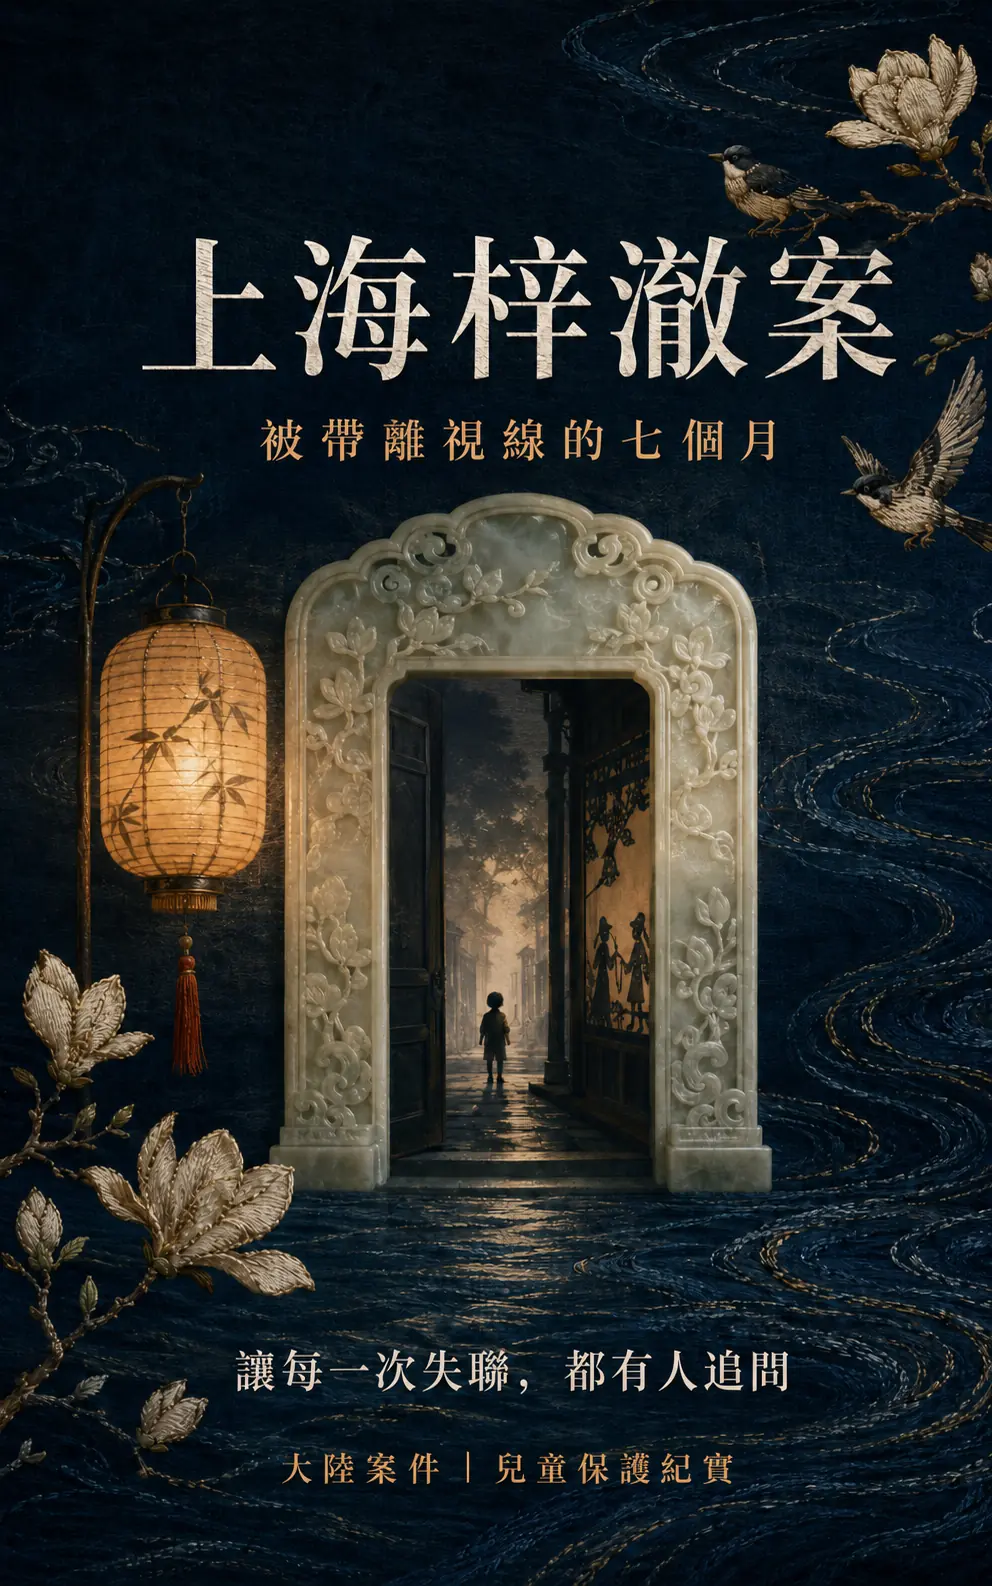
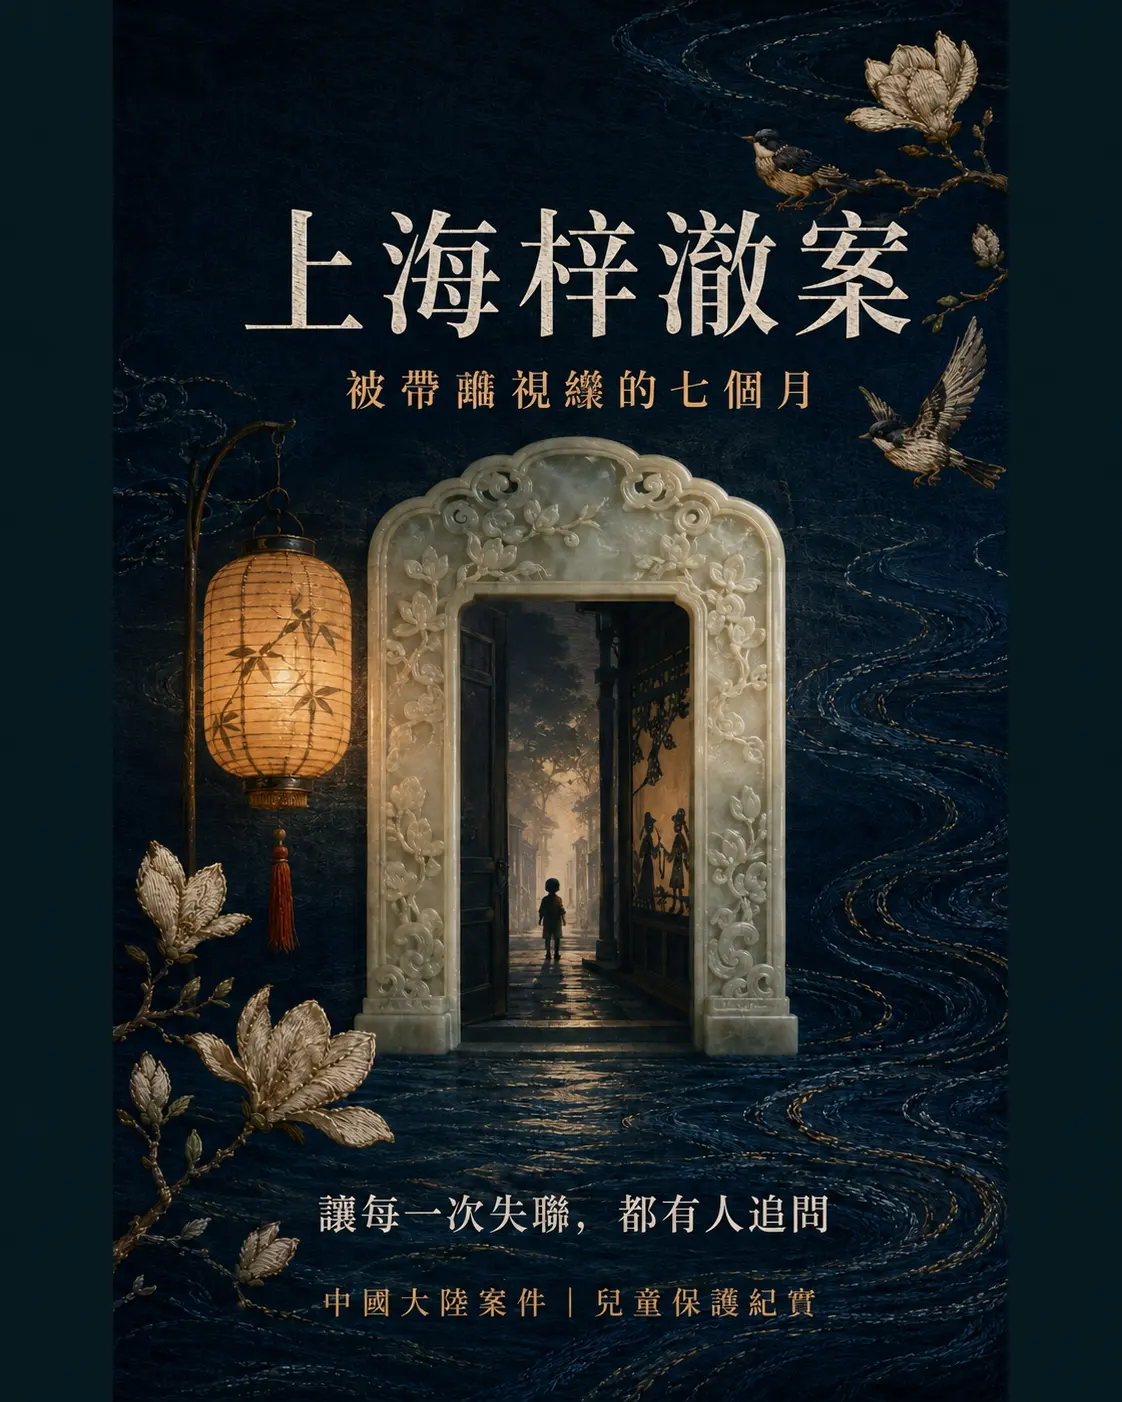
Publish corrected Traditional Chinese Huang Ziche poster

diff --git a/historical-cases/regions/mainland-china/huang-ziche/index.html b/historical-cases/regions/mainland-china/huang-ziche/index.html
@@ -9,7 +9,7 @@
   <meta property="og:type" content="article">
   <meta property="og:title" content="上海梓澈案｜被帶離視線的七個月">
   <meta property="og:description" content="把法院認定、家屬陳述、媒體查證與仍待回答的問題分層呈現。">
-  <meta property="og:image" content="https://jerryzuhow77.github.io/child-advocacy-site/assets/art/huang-ziche-main-visual-hant-20260830.webp">
+  <meta property="og:image" content="https://jerryzuhow77.github.io/child-advocacy-site/assets/art/huang-ziche-main-visual-hant-20260830.webp?v=2">
   <link rel="canonical" href="https://jerryzuhow77.github.io/child-advocacy-site/historical-cases/regions/mainland-china/huang-ziche/">
   <link rel="alternate" hreflang="zh-Hant" href="https://jerryzuhow77.github.io/child-advocacy-site/historical-cases/regions/mainland-china/huang-ziche/">
   <link rel="alternate" hreflang="zh-Hans" href="https://jerryzuhow77.github.io/child-advocacy-site/historical-cases/regions/mainland-china/huang-ziche/zh-Hans/">
@@ -75,7 +75,7 @@
 </div>
 <details class="hz-mobile-detail"><summary>查看完整案件摘要與海派美術說明</summary><p>2024年1月，三歲的黃梓澈被生父帶離生母身邊；同年8月24日，他遭生父女友趙雨蝶傷害後昏迷，9月4日死亡。2026年4月21日，上海市第一中級人民法院一審判處趙雨蝶死刑，緩期二年執行。本頁將法院認定、鑑定結果、家屬陳述與未答之問分層整理；美術以絨繡承擔情緒、玉雕建立證據框架、燈彩引導閱讀、顧繡收束留白。</p></details>
 </div></section>
-<section class="hz-case-key-visual" aria-labelledby="hz-case-key-visual-title"><div class="tt-shell hz-case-key-visual-grid"><figure><img src="../../../../assets/art/huang-ziche-main-visual-hant-20260830.webp" width="992" height="1586" loading="eager" fetchpriority="high" alt="上海梓澈案主視覺：深靛絨繡水紋、顧繡玉蘭、上海燈彩與海派玉雕門，門內是一名走向微光的孩子剪影"></figure><div class="hz-case-key-visual-copy"><small>CASE KEY VISUAL · SHANGHAI</small><h2 id="hz-case-key-visual-title">一扇門，與七個月的失聯</h2><p>主視覺以深靛絨繡水紋承接漫長失聯，以海派玉雕門框象徵仍應被打開的安全確認程序；上海燈彩照向門內，顧繡玉蘭與飛鳥則留下對一個孩子的記憶。</p><p>2024年1月，三歲的黃梓澈被帶離生母身邊；同年8月遭受致命傷害，9月4日死亡。2026年4月21日，上海市第一中級人民法院一審判處趙雨蝶死刑，緩期二年執行。</p><p class="hz-case-key-visual-note">這不是傷害的再現，而是一個制度追問：當幼兒長期離開熟悉照顧者並失去聯絡，誰應在悲劇以前確認他的所在與安全？</p></div></div></section>
+<section class="hz-case-key-visual" aria-labelledby="hz-case-key-visual-title"><div class="tt-shell hz-case-key-visual-grid"><figure><img src="../../../../assets/art/huang-ziche-main-visual-hant-20260830.webp?v=2" width="1122" height="1402" loading="eager" fetchpriority="high" alt="上海梓澈案主視覺：深靛絨繡水紋、顧繡玉蘭、上海燈彩與海派玉雕門，門內是一名走向微光的孩子剪影"></figure><div class="hz-case-key-visual-copy"><small>CASE KEY VISUAL · SHANGHAI</small><h2 id="hz-case-key-visual-title">一扇門，與七個月的失聯</h2><p>主視覺以深靛絨繡水紋承接漫長失聯，以海派玉雕門框象徵仍應被打開的安全確認程序；上海燈彩照向門內，顧繡玉蘭與飛鳥則留下對一個孩子的記憶。</p><p>2024年1月，三歲的黃梓澈被帶離生母身邊；同年8月遭受致命傷害，9月4日死亡。2026年4月21日，上海市第一中級人民法院一審判處趙雨蝶死刑，緩期二年執行。</p><p class="hz-case-key-visual-note">這不是傷害的再現，而是一個制度追問：當幼兒長期離開熟悉照顧者並失去聯絡，誰應在悲劇以前確認他的所在與安全？</p></div></div></section>
 
 <section class="hz-shanghai-culture" aria-labelledby="hz-shanghai-culture-title"><div class="tt-shell">
   <header class="hz-shanghai-culture-head"><small>SHANGHAI CULTURAL TEXTURES</small><h2 id="hz-shanghai-culture-title">上海文化景點・一座城市的色與形</h2><p>這些地標不是案件場景，也不指向任何當事人的行蹤；它們只作為頁面海派美術的文化座標，讓城市記憶、傳統色與守護意象彼此照應。</p></header>
@@ -197,7 +197,7 @@
 <section class="hz-intervention-panel" aria-labelledby="hz-intervention-title"><header><small>PROTECTION PATH</small><h3 id="hz-intervention-title">悲劇發生以前｜五個可以介入的節點</h3></header><ol class="hz-intervention-path"><li><span>01</span><div><strong>失聯</strong><p>親屬長期無法見到幼兒</p></div></li><li><span>02</span><div><strong>確認</strong><p>面見兒童，不只詢問照顧者</p></div></li><li><span>03</span><div><strong>警訊併讀</strong><p>傷勢、缺席、說法矛盾合併判讀</p></div></li><li><span>04</span><div><strong>跨網通報</strong><p>警政、醫療、托育、社福交換必要資訊</p></div></li><li><span>05</span><div><strong>持續追蹤</strong><p>一次確認後仍須追蹤風險是否解除</p></div></li></ol><p class="hz-intervention-foot">保護不是等到證據足以定罪才開始；安全確認與刑事定罪有不同門檻。</p></section></article></div></section>
 </div>
 
-<section class="hz-social-poster" aria-labelledby="hz-social-poster-title"><div class="tt-shell hz-social-poster-grid"><div><small>SHARE THE QUESTION</small><h2 id="hz-social-poster-title">社群主視覺海報</h2><p>以海派玉雕的門、上海燈彩的光、絨繡的水紋與顧繡玉蘭承接同一個追問：當幼兒長期失聯，誰來確認他平安？</p><a href="../../../../assets/art/huang-ziche-main-visual-hant-20260830.webp" download>下載海派主視覺圖</a></div><figure><img src="../../../../assets/art/huang-ziche-main-visual-hant-20260830.webp" width="992" height="1586" loading="lazy" alt="上海梓澈案繁體社群主視覺海報，以海派玉雕門框、絨繡水紋、燈彩與顧繡玉蘭呈現"></figure></div></section>
+<section class="hz-social-poster" aria-labelledby="hz-social-poster-title"><div class="tt-shell hz-social-poster-grid"><div><small>SHARE THE QUESTION</small><h2 id="hz-social-poster-title">社群主視覺海報</h2><p>以海派玉雕的門、上海燈彩的光、絨繡的水紋與顧繡玉蘭承接同一個追問：當幼兒長期失聯，誰來確認他平安？</p><a href="../../../../assets/art/huang-ziche-main-visual-hant-20260830.webp?v=2" download>下載海派主視覺圖</a></div><figure><img src="../../../../assets/art/huang-ziche-main-visual-hant-20260830.webp?v=2" width="1122" height="1402" loading="lazy" alt="上海梓澈案繁體社群主視覺海報，以海派玉雕門框、絨繡水紋、燈彩與顧繡玉蘭呈現"></figure></div></section>
 
 <section class="tt-sources" aria-labelledby="tt-sources-title"><div class="tt-shell">
 <h2 id="tt-sources-title">資料來源與編輯說明</h2>
@@ -230,7 +230,7 @@
   <div class="tt-ending-theatre-stage" aria-hidden="true"><span class="tt-ending-theatre-light"></span><span class="tt-ending-theatre-bloom"></span><span class="tt-ending-theatre-puppet tt-ending-theatre-puppet--woman"><i></i></span><span class="tt-ending-theatre-puppet tt-ending-theatre-puppet--scribe"><i></i></span></div>
   <div class="tt-ending-theatre-script"><small id="tt-ending-theatre-title">海派走馬燈謝幕・把門打開</small><p data-speaker="woman"><b>女：</b>你看燈影已走過一周，門仍在夜色裡。若我們只在悲劇之後相逢，這相逢是否太遲？</p><p data-speaker="scribe"><b>男：</b>那便把追問放到失聯的第一日，把守望放到傷痕之前；替下一個孩子，留下可以回來的路。</p><p data-speaker="woman"><b>女：</b>倘若世人仍說，那只是別人的家事呢？</p><p data-speaker="scribe"><b>男：</b>孩子的安危從來不是一戶門內的私語。你我所守的，是所有尚能被及時打開的門。</p></div>
   <div class="hz-ending-curtain" aria-hidden="true"><i></i><i></i></div>
-  <figure class="hz-ending-reveal" aria-hidden="true"><img src="../../../../assets/art/huang-ziche-main-visual-hant-20260830.webp" width="992" height="1586" alt=""></figure>
+  <figure class="hz-ending-reveal" aria-hidden="true"><img src="../../../../assets/art/huang-ziche-main-visual-hant-20260830.webp?v=2" width="1122" height="1402" alt=""></figure>
   <div class="hz-ending-final"><p>讓警訊被看見，讓孩子被找到。<br>讓保護在還來得及時抵達。</p><b>守護</b></div>
 </div>
 <button class="tt-ending-theatre-skip" type="button" data-hz-ending-skip aria-controls="tt-ending-theatre">略過結尾動畫</button>

diff --git a/assets/huang-ziche-shanghai-crafts-20260829.js b/assets/huang-ziche-shanghai-crafts-20260829.js
@@ -12,7 +12,7 @@
     ? new URL('.', craftScript.src)
     : new URL('/child-advocacy-site/assets/', location.origin);
   const localePosterSpecs = {
-    'zh-hant': { file: 'huang-ziche-main-visual-hant-20260830.webp', width: 992, height: 1586 },
+    'zh-hant': { file: 'huang-ziche-main-visual-hant-20260830.webp', width: 1122, height: 1402, version: '2' },
     'zh-hans': { file: 'huang-ziche-main-visual-20260830.jpg', width: 1229, height: 1536 },
     en: { file: 'huang-ziche-haipai-stage-backdrop-clean-20260830.webp', width: 1672, height: 941 },
     ja: { file: 'huang-ziche-haipai-stage-backdrop-clean-20260830.webp', width: 1672, height: 941 }
@@ -24,7 +24,9 @@
       : lang.startsWith('zh-hant') ? 'zh-hant'
         : lang.startsWith('ja') ? 'ja' : 'en';
     const spec = localePosterSpecs[key];
-    const posterUrl = new URL(`art/${spec.file}`, assetsRoot).href;
+    const posterAsset = new URL(`art/${spec.file}`, assetsRoot);
+    if (spec.version) posterAsset.searchParams.set('v', spec.version);
+    const posterUrl = posterAsset.href;
 
     document.querySelectorAll([
       '.hz-case-key-visual img',
